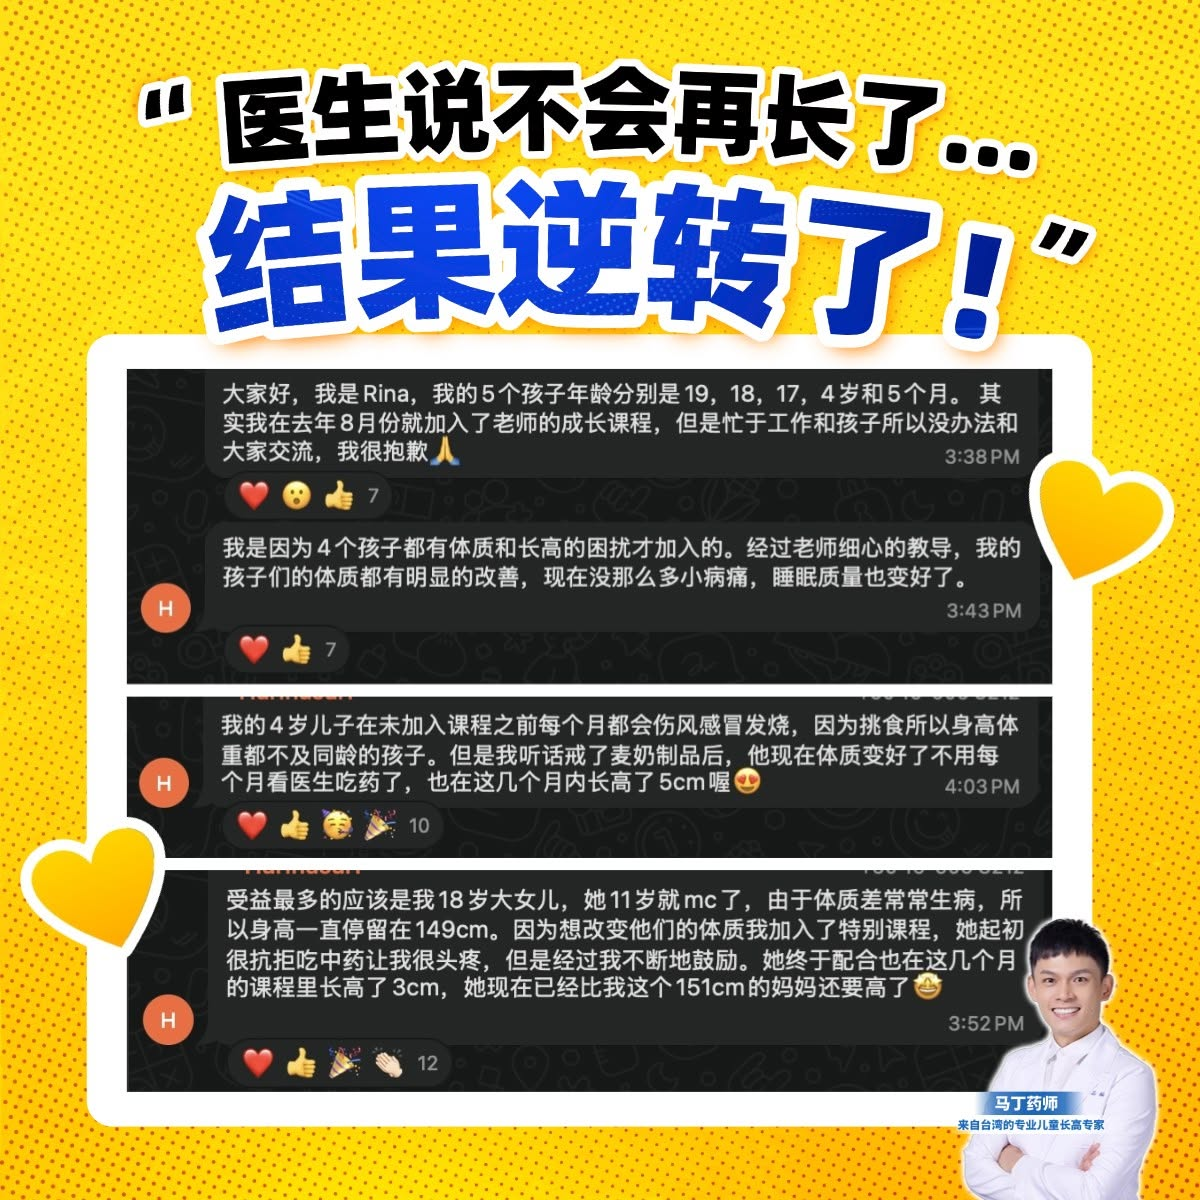
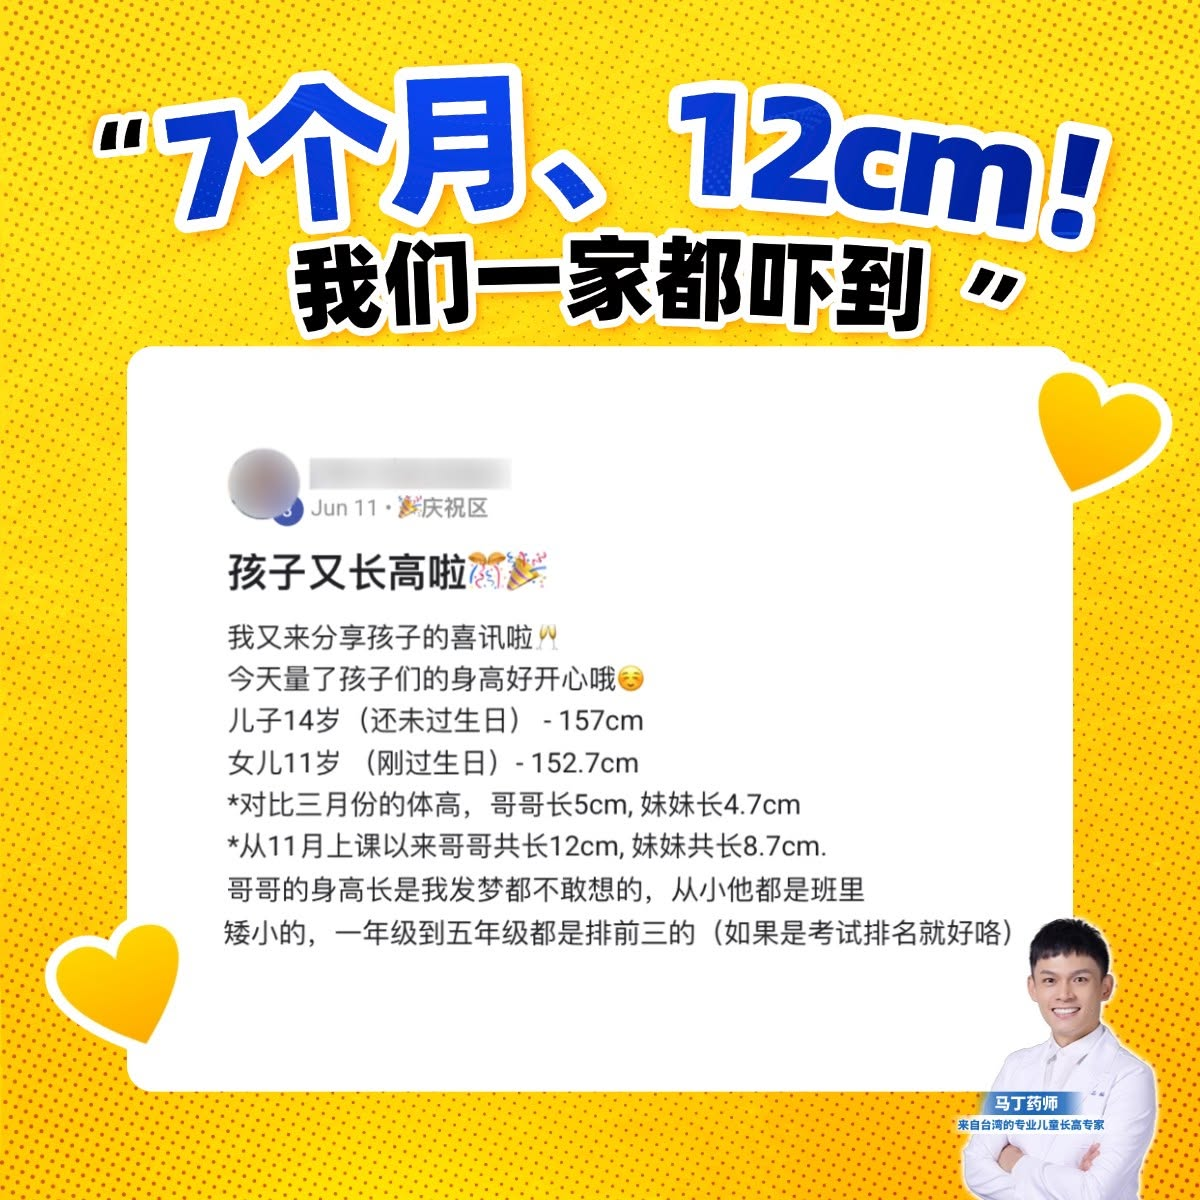
Pull the two creatives with a phone number baked into the artwork
Operator rule: an image showing a phone number must not run. Two of the 18
built ads embed the same WhatsApp group screenshots, and the chat header
carries a member's mobile number in low-contrast grey — faint, but still a
real person's number published in an ad.

Adds a targeted fix script rather than re-running the build: it deletes F's
医生说不会再长 ad outright, and for C's best-of carousel rebuilds the creative
from the live object_story_spec minus that one card (creatives are immutable),
points a new ad at it and deletes the old one. Both image hashes are purged
from the ad-image library. Each target is verified by image hash first and
skipped rather than guessed at on a mismatch.

The build script and staged assets are updated to match so a future run never
recreates them; the deck stays coherent at 4 cards.

Also corrects the build workflow's header. It claimed re-dispatch was a no-op,
but state/ is not committed, so a runner always starts empty and a second
dispatch would duplicate every campaign. Documents the recovery path instead.

Claude-Session: https://claude.ai/code/session_01RXvcEfNXSNMUoCohJVe71s

diff --git a/scripts/fix_remove_phone_number_ads.py b/scripts/fix_remove_phone_number_ads.py
@@ -1,0 +1,135 @@
+"""Remove the two creatives whose artwork has a parent's phone number baked into it.
+
+Operator rule (2026-08-11): any image showing a phone number must not run. Two of the 18 ads
+built by build_sg_batch.py embed the same WhatsApp group screenshots, and the chat header carries
+a member's mobile number in low-contrast grey — faint on screen, but still a real person's number
+published in an ad, so both are pulled.
+
+  1. F 备用 · single image  ad 120257496436350093  (doctor_said_no/img.jpg)
+     → the whole ad goes; F drops to 1 ad.
+  2. C 见证证明 · carousel   ad 120257496424740093  (review_best_of card_04)
+     → only that CARD goes. Creatives are immutable, so this rebuilds the creative from the live
+       object_story_spec minus the offending child attachment, points a new ad at it, and deletes
+       the old ad. The deck stays coherent at 4 cards: split cover (01+02) → 裤子变短 → 7个月12cm.
+
+Also deletes both image hashes from the account's ad-image library so they cannot be picked up
+again by mistake.
+
+Safety: identifies the cards BY IMAGE HASH and verifies each target before touching anything;
+aborts that step rather than guessing if the hash is not where it is expected. Everything it
+touches is already PAUSED, so nothing was ever delivered with the number on it.
+"""
+from __future__ import annotations
+
+import json
+from typing import Any, Dict, List
+
+from adbot.clients.graph import GraphError
+from adbot.commands import graph_client
+from adbot.logging import final_summary, get_logger
+from adbot.settings import load_settings
+
+# image hashes of the two offending assets (from the build log, run 31491269416)
+HASH_DOCTOR_SAID_NO = "184d33dfc31ac54b654fdccdc591793f"   # F group, whole ad
+HASH_REVIEW_CARD_04 = "2b0a19ea5c26e204641970cbd2e20b39"   # C group, one carousel card
+
+AD_DOCTOR_SAID_NO = "120257496436350093"
+AD_REVIEW_BEST_OF = "120257496424740093"
+ADSET_C_PROOF = "120257496423660093"
+
+
+def _spec_without(story: Dict[str, Any], bad_hash: str) -> Dict[str, Any]:
+    """Return a copy of object_story_spec with the child attachment for `bad_hash` removed."""
+    story = json.loads(json.dumps(story))          # deep copy
+    link_data = story.get("link_data") or {}
+    children: List[Dict[str, Any]] = link_data.get("child_attachments") or []
+    kept = [c for c in children if c.get("image_hash") != bad_hash]
+    if len(kept) == len(children):
+        raise SystemExit(f"card with hash {bad_hash} not found among {len(children)} attachments")
+    if len(kept) < 2:
+        raise SystemExit(f"only {len(kept)} card(s) would remain — a carousel needs at least 2")
+    link_data["child_attachments"] = kept
+    story["link_data"] = link_data
+    return story, len(children), len(kept)
+
+
+def main() -> None:
+    log = get_logger()
+    s = load_settings()
+    g = graph_client(s)
+    acct = s.meta.account_path
+    conv = s.meta.conversion_domain_bare or None
+    done: List[str] = []
+
+    # ── 1. F 备用 · delete the single-image ad outright ──────────────────────────
+    try:
+        ad = g.get_object(AD_DOCTOR_SAID_NO, "id,name,status,creative{id,object_story_spec}")
+        story = (ad.get("creative") or {}).get("object_story_spec") or {}
+        got = ((story.get("link_data") or {}).get("image_hash"))
+        log.info("F · ad %s %r status=%s image_hash=%s", ad.get("id"), (ad.get("name") or "")[:46],
+                 ad.get("status"), got)
+        if got != HASH_DOCTOR_SAID_NO:
+            log.error("!! image hash mismatch (expected %s) — NOT deleting", HASH_DOCTOR_SAID_NO)
+            done.append("F: SKIPPED (hash mismatch — verify manually)")
+        else:
+            g._request("DELETE", AD_DOCTOR_SAID_NO)
+            log.info("   ✓ deleted ad %s", AD_DOCTOR_SAID_NO)
+            done.append(f"F 备用: deleted ad {AD_DOCTOR_SAID_NO} (医生说不会再长) → F now has 1 ad")
+    except GraphError as exc:
+        log.error("!! F step failed: %s", exc)
+        done.append(f"F: FAILED {exc}")
+
+    # ── 2. C 见证证明 · rebuild the carousel without the offending card ──────────
+    try:
+        ad = g.get_object(AD_REVIEW_BEST_OF, "id,name,status,adset_id,creative{id,object_story_spec,name}")
+        creative = ad.get("creative") or {}
+        story = creative.get("object_story_spec") or {}
+        new_story, before, after = _spec_without(story, HASH_REVIEW_CARD_04)
+        log.info("C · ad %s %r — carousel %d cards → %d", ad.get("id"),
+                 (ad.get("name") or "")[:46], before, after)
+
+        spec: Dict[str, Any] = {"name": creative.get("name") or "review_best_of (4 cards)",
+                                "object_story_spec": new_story}
+        if s.meta.instagram_user_id:
+            spec["instagram_user_id"] = s.meta.instagram_user_id
+        if s.meta.url_tags:
+            spec["url_tags"] = s.meta.url_tags
+        new_creative = g.create_adcreative(acct, **spec)
+        log.info("   + new creative %s (%d cards)", new_creative["id"], after)
+
+        new_ad = g.create_ad(acct, name=ad.get("name") or "Carousel：7 个月，哥哥长了 12cm",
+                             adset_id=ad.get("adset_id") or ADSET_C_PROOF,
+                             creative={"creative_id": new_creative["id"]},
+                             status="PAUSED", conversion_domain=conv)
+        log.info("   + new ad %s (PAUSED)", new_ad["id"])
+
+        g._request("DELETE", AD_REVIEW_BEST_OF)
+        log.info("   ✓ deleted old ad %s", AD_REVIEW_BEST_OF)
+        done.append(f"C 见证证明: carousel rebuilt {before}→{after} cards · new ad {new_ad['id']} "
+                    f"(old {AD_REVIEW_BEST_OF} deleted)")
+    except (GraphError, SystemExit) as exc:
+        log.error("!! C step failed: %s", exc)
+        done.append(f"C: FAILED {exc}")
+
+    # ── 3. purge both images from the account's ad-image library ─────────────────
+    for label, h in (("doctor_said_no", HASH_DOCTOR_SAID_NO), ("review card_04", HASH_REVIEW_CARD_04)):
+        try:
+            g._request("DELETE", f"{acct}/adimages", params={"hash": h})
+            log.info("   ✓ purged image %s (%s)", h, label)
+            done.append(f"purged image {label} {h}")
+        except GraphError as exc:
+            log.warning("   · could not purge %s (%s): %s", h, label, exc)
+            done.append(f"purge {label}: skipped ({exc})")
+
+    log.info("═" * 88)
+    for line in done:
+        log.info("  • %s", line)
+    final_summary(
+        log, "Phone-number artwork pulled: F's 医生说不会再长 ad deleted, C's best-of carousel "
+             "rebuilt without card 4, both images purged from the ad-image library. Batch is now "
+             "17 ads across 6 campaigns, all still PAUSED. The evidence in the deleted card also "
+             "appears (without the number) nowhere else — that testimonial is now out of rotation.")
+
+
+if __name__ == "__main__":
+    main()

diff --git a/scripts/build_sg_batch.py b/scripts/build_sg_batch.py
@@ -287,9 +287,10 @@ ADS: List[Dict[str, Any]] = [
         "content_id": "sg-好评合集-7个月12cm",
         "headline": "7 个月，哥哥长了 12cm",
         "description": "6000+ 家长的共同见证 · 免费线上课",
+        # card_04 (the 医生说不会再长 / Rina 群聊 card) was pulled: the chat header has a parent's
+        # phone number baked into the artwork. Operator rule — no phone numbers in creatives.
         "cards": [{}, {},
                   {"name": "平均一个月长 1cm", "description": "两个孩子，半年多的记录"},
-                  {"name": "医生说不会再长，结果逆转", "description": "18 岁大女儿长了 3cm"},
                   {"name": "7 个月 12cm", "description": "「我发梦都不敢想」"}],
         "caption": tail(
             "「从 11 月上课到现在，哥哥总共长了 12cm。\n"
@@ -534,27 +535,10 @@ ADS: List[Dict[str, Any]] = [
     },
 
     # ══ F · 备用组（证据与 C 组重叠，先建后放） ═══════════════════════════════════
-    {
-        "group": "f_backup", "dir": "doctor_said_no", "kind": SINGLE_IMAGE,
-        "content_id": "sg-权威反转-医生说他不会再长了",
-        "headline": "医生说他不会再长了，结果呢？",
-        "description": "免费线上课 · 被判「长不高」的孩子，后来长回来了",
-        "caption": tail(
-            "「医生说她骨龄快封闭了，最多就 149cm。」\n\n"
-            "几个月后，这位妈妈自己在群里发了消息：\n"
-            "女儿长了 3cm，现在比 151cm 的妈妈还要高 🎉\n\n"
-            "这不是我写的文案，是家长亲自截图分享的。\n\n"
-            "同一位妈妈的 4 岁儿子，以前每个月都感冒发烧、挑食，\n"
-            "身高体重都不及同龄孩子；\n"
-            "戒掉麦类和奶制品、调整体质之后，\n"
-            "不但不用每个月跑医院，几个月内还长高了 5cm。\n\n"
-            "你是不是也听过类似的话？\n"
-            "🔸 医生说骨龄快封闭了，孩子大概就这样了\n"
-            "🔸 每年长不到 2cm，中医西医都看过，就是没起色\n"
-            "🔸 全家为孩子的身高操碎心，却不知道还能做什么\n\n"
-            "我想告诉你的是：被判「不会再长」的孩子，我看过太多后来长回来了。",
-            closing="别让身高成为孩子一辈子的遗憾。"),
-    },
+    # NOTE: 「医生说他不会再长了」was removed 2026-08-11 — its artwork bakes in a parent's phone
+    # number (visible in the WhatsApp chat header). Operator rule: no phone numbers in creatives.
+    # The same testimonial also appeared as card 4 of C's best-of carousel and was pulled there
+    # too, so this parent's screenshots are entirely out of rotation.
     {
         "group": "f_backup", "dir": "no_supplements", "kind": SINGLE_IMAGE,
         "content_id": "sg-反补品-不吃保健品孩子反而长高了",
